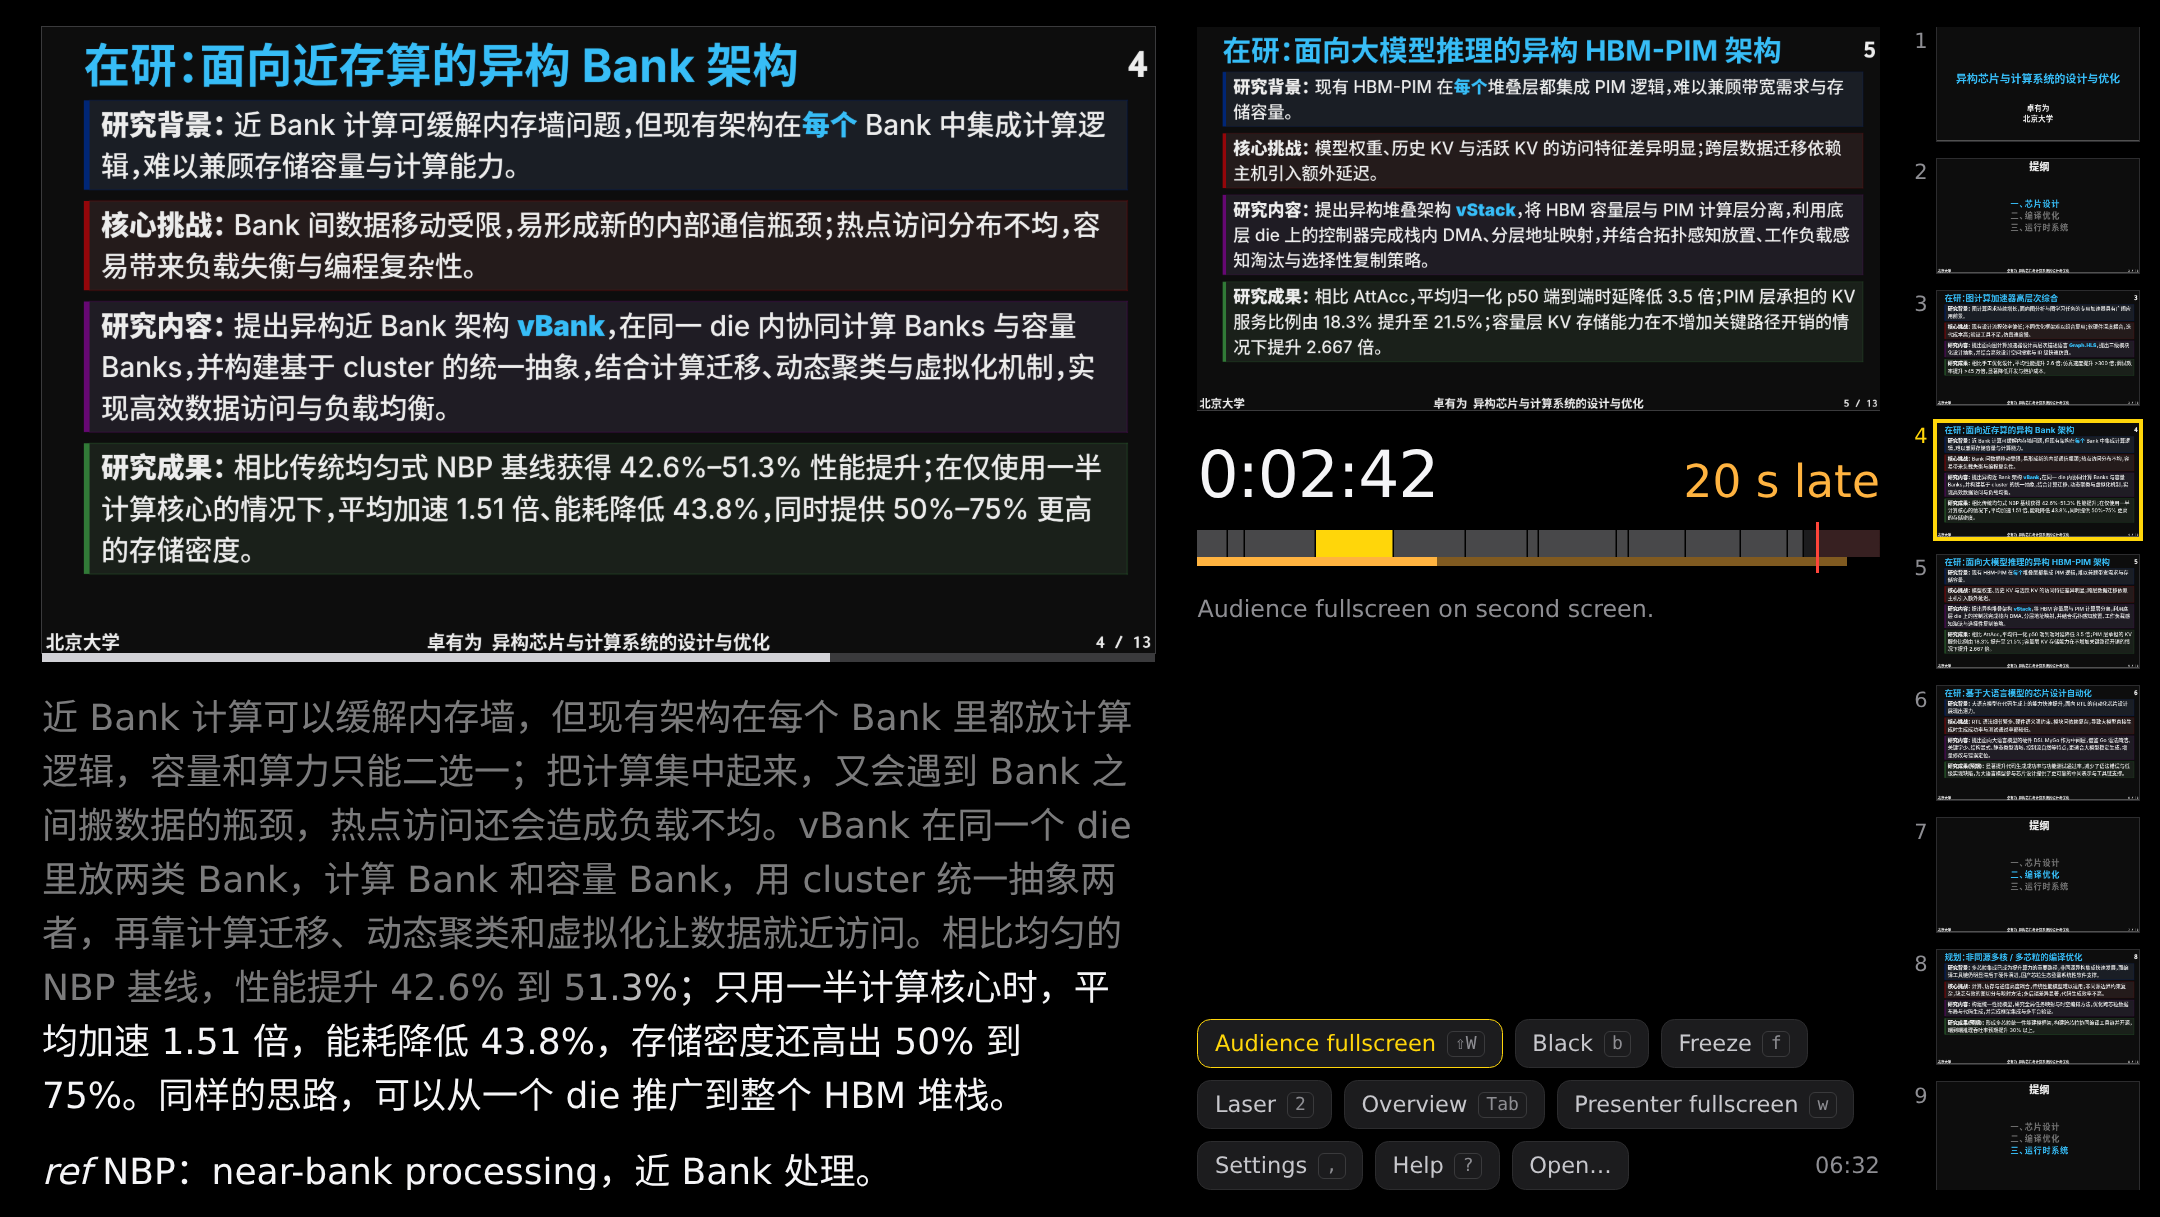
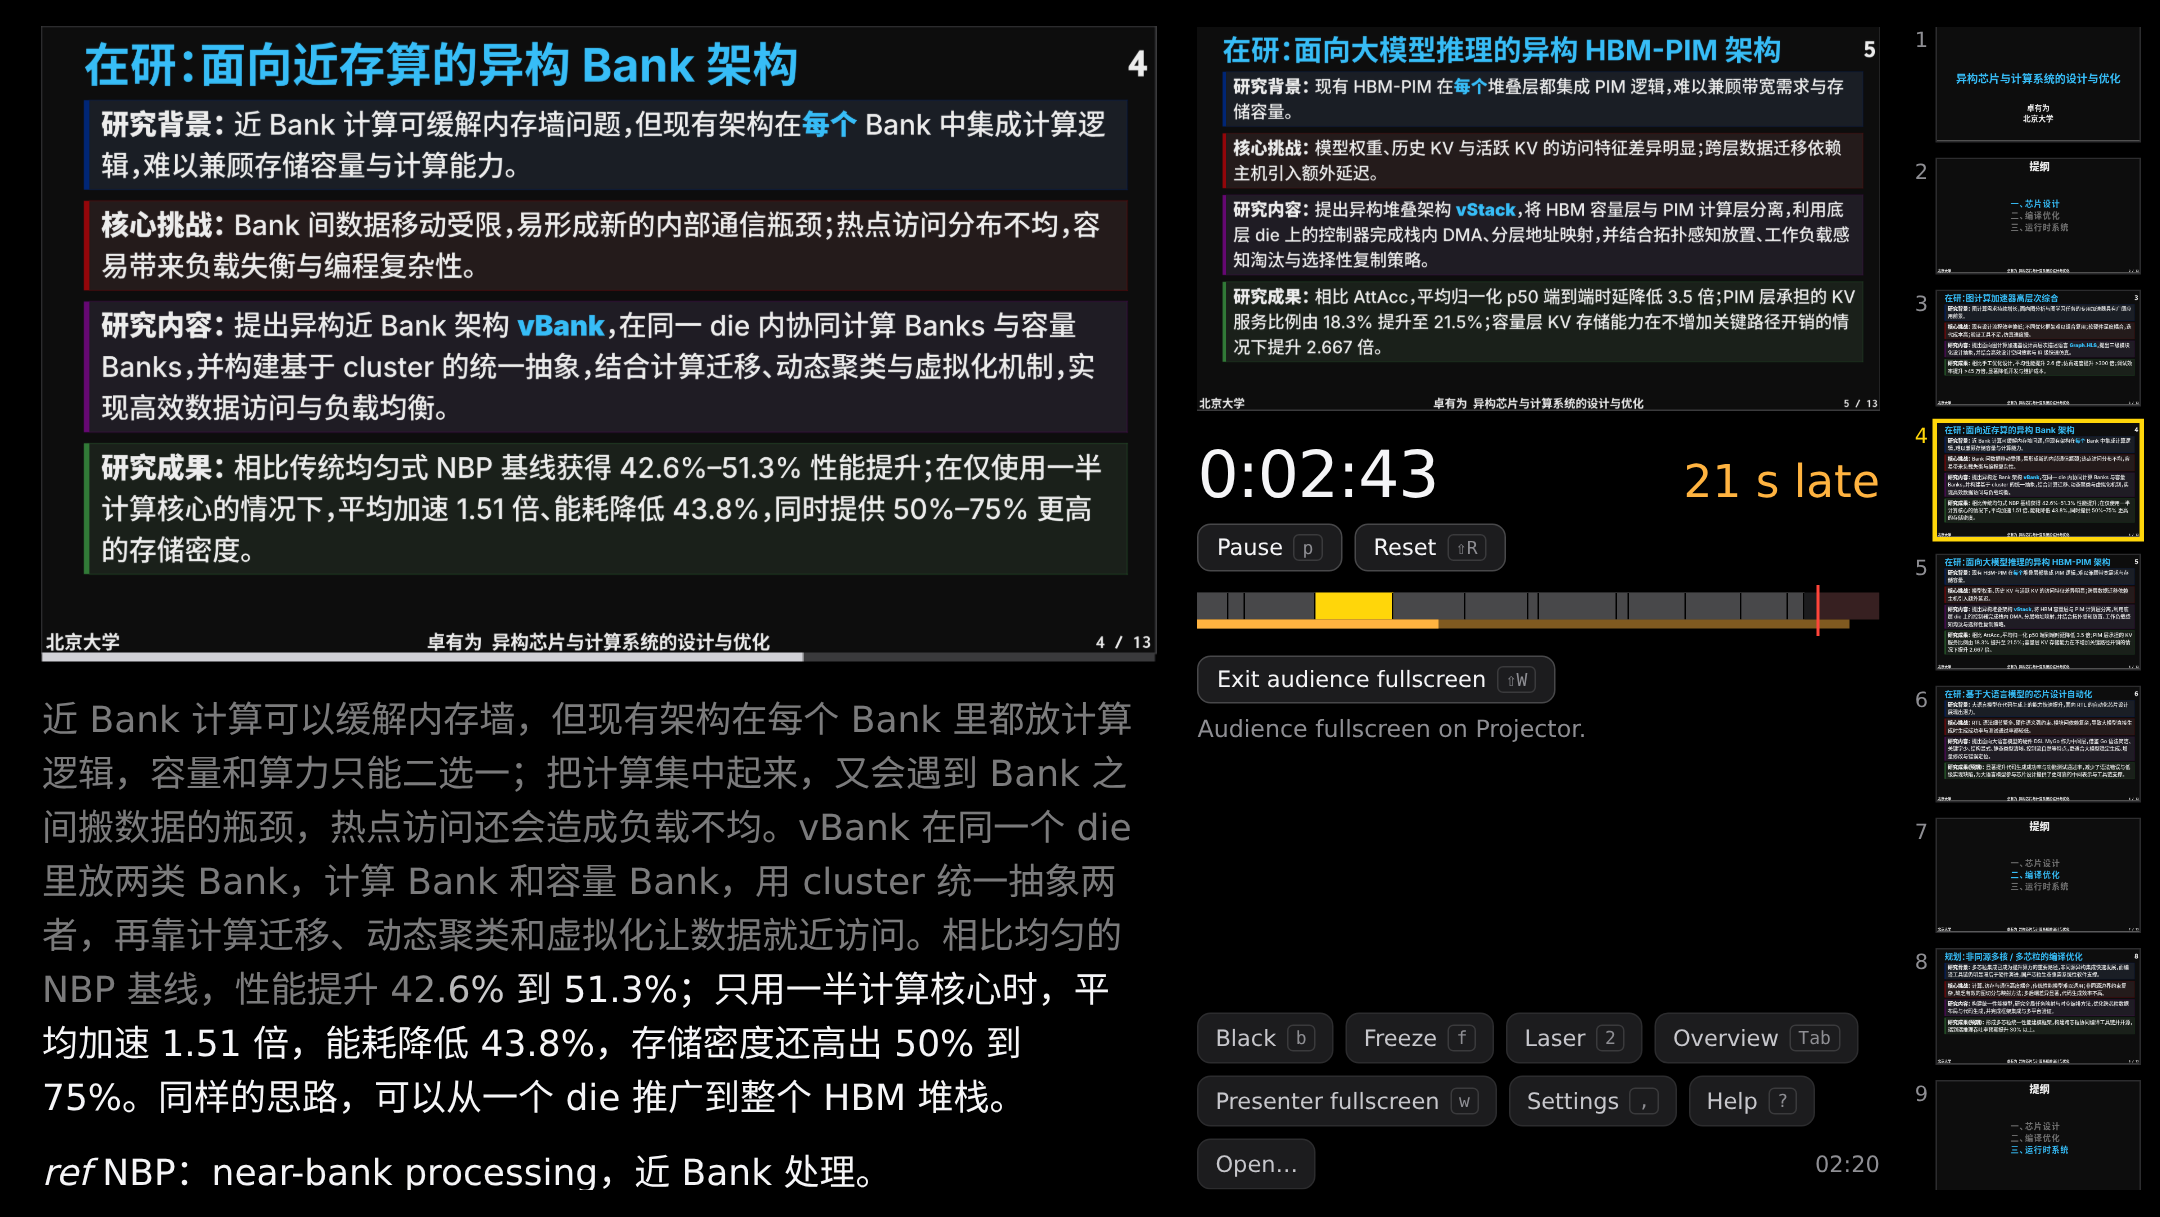
Start, Pause, Reset and the audience's next step in plain sight
Testers didn't know they could pause or reset the clock, so a look
through the slides before the talk threw the pace off.

- Start/Pause and Reset buttons sit under the clock, always there. What
  to press next is yellow: Start before the clock starts, Resume while
  paused. While the clock runs, Reset takes a second click; the reset
  keys still work only while paused.
- Back on slide 1 with time on the clock, Reset turns yellow, and a
  message asks to reset it before starting the talk.
- No line of text under the clock, so nothing there moves as the clock
  starts, pauses or resets; the e2e checks hold the talk bar still. The
  buttons show the clock's state; the rest is in their tooltips (the
  startTime countdown is on Start).
- A yellow button by the clock gives the audience's next step: open the
  audience window, then make it fullscreen, naming the screen. It
  replaces the Audience button in the toolbar.
- A new README screenshot.

diff --git a/src/main.ts b/src/main.ts
@@ -21,6 +21,14 @@ function el<K extends keyof HTMLElementTagNameMap>(tag: K, className = "", text 
   return e;
 }
 
+/** A button's label and key, redrawn only when they change (so a click in progress isn't lost). */
+function label(b: HTMLElement, text: string, key: string): void {
+  const now = `${text}\n${key}`;
+  if (b.dataset.label === now) return;
+  b.dataset.label = now;
+  b.replaceChildren(text, el("kbd", "", key));
+}
+
 let toastTimer = 0;
 function toast(message: string, kind: "info" | "error" = "info", ms = 4500): void {
   const t = $("toast");
@@ -330,7 +338,7 @@ class Presenter {
         // Never mid-talk by a stray key: the clock has to be paused first.
         if (s.timer.startedAt === null) return;
         if (s.timer.pausedAt === null) {
-          toast("The timer is running. Pause it first (p, or click the clock), then reset.");
+          toast("The timer is running. Pause it first (p), then reset, or click Reset twice.");
           return;
         }
         s.timer = T.freshTimer();
@@ -402,9 +410,39 @@ class Presenter {
     cur.addEventListener("wheel", wheelStepper((d) => this.act(d > 0 ? "next" : "prev")), { signal, passive: true });
     $("next").addEventListener("click", () => this.act("nextSlide"), { signal });
     $("timer").addEventListener("click", () => this.act("timerPause"), { signal });
-    $("timer-reset").addEventListener("click", () => this.act("timerReset"), { signal });
+    const toggle = $("timer-toggle");
+    toggle.addEventListener(
+      "click",
+      () => {
+        toggle.blur();
+        this.act(this.state.timer.startedAt === null ? "timerStart" : "timerPause");
+      },
+      { signal },
+    );
+    const reset = $("timer-reset");
+    reset.addEventListener(
+      "click",
+      () => {
+        reset.blur();
+        const t = this.state.timer;
+        // Running, it takes a second click, so a stray one can't wipe the talk's time.
+        if (t.pausedAt === null && !this.resetArmed) {
+          this.resetArmed = window.setTimeout(() => {
+            this.resetArmed = 0;
+            this.renderTimer();
+          }, 3000);
+          this.renderTimer();
+          return;
+        }
+        clearTimeout(this.resetArmed);
+        this.resetArmed = 0;
+        if (t.pausedAt === null) this.state.timer = T.togglePause(t, Date.now());
+        this.act("timerReset");
+      },
+      { signal },
+    );
 
-    for (const b of document.querySelectorAll<HTMLButtonElement>(".toolbar [data-action]")) {
+    for (const b of document.querySelectorAll<HTMLButtonElement>("#presenter [data-action]")) {
       b.addEventListener(
         "click",
         () => {
@@ -661,7 +699,6 @@ class Presenter {
     this.renderStatus();
 
     const on: Partial<Record<Action, boolean>> = {
-      openAudience: audience.open,
       laserMode: s.laser,
       blank: s.black,
       freeze: s.frozen !== null,
@@ -669,11 +706,13 @@ class Presenter {
       fullscreen: !!document.fullscreenElement,
       help: s.help,
     };
-    // Once the audience window is open, its button makes it fullscreen.
+    // The audience's next step, standing out until the audience is fullscreen.
     const ab = $("audience-button");
     ab.dataset.action = audience.open ? "audienceFullscreen" : "openAudience";
-    ab.innerHTML = audience.open ? "Audience fullscreen <kbd>⇧W</kbd>" : "Audience <kbd>o</kbd>";
-    on.audienceFullscreen = audience.fullscreen;
+    ab.classList.toggle("cta", !audience.fullscreen);
+    if (!audience.open) label(ab, "Open audience window", "o");
+    else if (audience.fullscreen) label(ab, "Exit audience fullscreen", "⇧W");
+    else label(ab, audience.screen ? `Audience fullscreen on ${audience.screen}` : "Audience fullscreen", "⇧W");
     for (const b of document.querySelectorAll<HTMLElement>(".toolbar [data-action]")) {
       b.classList.toggle("on", !!on[b.dataset.action as Action]);
     }
@@ -717,6 +756,10 @@ class Presenter {
     return `${second}:${Math.floor(now / 60_000)}`;
   }
   private beat = "";
+  /** Set while Reset waits for its second click. */
+  private resetArmed = 0;
+  /** On slide 1 with time on the clock, as last drawn. */
+  private stale = false;
 
   /** The ticker's beat: redraws once a shown number turns over, not on every beat. Returns when to beat again. */
   private tick(): number {
@@ -746,22 +789,31 @@ class Presenter {
     timer.textContent = T.format(T.elapsed(t, now));
     timer.classList.toggle("idle", t.startedAt === null || t.pausedAt !== null);
     $("wallclock").textContent = T.formatClock(now);
-    const until = T.untilStart(this.talk(), now);
-    const mode =
-      t.pausedAt !== null
-        ? "paused · click the clock to resume"
-        : t.startedAt !== null
-          ? ""
-          : until
-            ? `talk starts at ${this.deck.startTime}, in ${T.format(until)}`
-            : s.page === 0
-              ? "starts when you leave slide 1"
-              : "starts at your next move, or press s";
-    $("timer-mode").textContent = mode;
-    const line = $("timer-line");
-    line.hidden = !mode;
-    line.classList.toggle("warn", t.pausedAt !== null);
-    $("timer-reset").hidden = t.pausedAt === null;
+    // Back on slide 1 with time on the clock: likely a look through the slides
+    // before the talk, which would throw its pace off. Reset is the way out.
+    const stale = t.startedAt !== null && this.deck.pages[s.page].slide === 0;
+    if (stale && !this.stale) toast("The clock has already started. Starting the talk now? Reset it first.", "info", 8000);
+    this.stale = stale;
+    // The buttons say what state the clock is in, so nothing under it comes and
+    // goes: what to press next stands out, and the rest is in their tooltips.
+    const toggle = $("timer-toggle");
+    if (t.startedAt === null) {
+      label(toggle, "Start", "s");
+      const until = T.untilStart(this.talk(), now);
+      toggle.title = until
+        ? `The talk starts at ${this.deck.startTime}, in ${T.format(until)}.`
+        : `Starts the clock. It also starts ${s.page === 0 ? "when you leave slide 1" : "at your next move"}.`;
+    } else {
+      label(toggle, t.pausedAt === null ? "Pause" : "Resume", "p");
+      toggle.title = "";
+    }
+    toggle.classList.toggle("cta", (t.startedAt === null || t.pausedAt !== null) && !stale);
+    const reset = $<HTMLButtonElement>("timer-reset");
+    reset.title = t.pausedAt === null ? "While the clock runs, click twice." : "";
+    reset.disabled = t.startedAt === null;
+    reset.classList.toggle("cta", stale && !this.resetArmed);
+    reset.classList.toggle("confirm", !!this.resetArmed);
+    label(reset, this.resetArmed ? "Click again to reset" : "Reset", "⇧R");
   }
 
   /** Each slide's planned window, from its first step's start to its last step's end. */
@@ -974,14 +1026,12 @@ class Presenter {
   private renderStatus(): void {
     const status = $("audience-status");
     if (!audience.open) {
-      status.textContent = this.state.solo
-        ? "Presenting in this window. Esc returns to the presenter view."
-        : "Audience window closed. Press o to open it.";
+      status.textContent = this.state.solo ? "Presenting in this window. Esc returns to the presenter view." : "";
     } else if (audience.fullscreen) {
       status.textContent = `Audience fullscreen${audience.screen ? ` on ${audience.screen}` : ""}.`;
     } else {
       status.textContent = audience.screen
-        ? `Audience window open. Shift+W makes it fullscreen on ${audience.screen}.`
+        ? "Audience window open, not fullscreen yet."
         : "Audience window open; drag it to the projector, then double-click it or press Shift+W for fullscreen.";
     }
     const scr = $("screen-status");

diff --git a/index.html b/index.html
@@ -62,20 +62,22 @@
             <button id="timer" class="timer idle" type="button" title="Click to pause or resume (p)">0:00:00</button>
             <span id="pace-all-text" class="pace-num"></span>
           </div>
-          <p id="timer-line" class="timer-line">
-            <span id="timer-mode"></span>
-            <button id="timer-reset" type="button" hidden>Reset to 0:00:00</button>
-          </p>
+          <div class="timer-controls">
+            <button id="timer-toggle" class="ctl cta" type="button">Start <kbd>s</kbd></button>
+            <button id="timer-reset" class="ctl" type="button" disabled>Reset <kbd>⇧R</kbd></button>
+          </div>
           <div
             id="talkbar"
             class="talkbar"
             title="The slides as planned, this one yellow. The line under them: time spent, colored like the early/late by the clock, then paler to where the talk would end. Red line: the target end."
           ></div>
         </section>
-        <p id="audience-status" class="hintline"></p>
+        <div class="audience-bar">
+          <button type="button" id="audience-button" class="ctl cta" data-action="openAudience">Open audience window <kbd>o</kbd></button>
+          <p id="audience-status" class="hintline"></p>
+        </div>
         <p id="screen-status" class="hintline"></p>
         <nav class="toolbar">
-          <button type="button" id="audience-button" data-action="openAudience">Audience <kbd>o</kbd></button>
           <button type="button" data-action="blank">Black <kbd>b</kbd></button>
           <button type="button" data-action="freeze">Freeze <kbd>f</kbd></button>
           <button type="button" data-action="laserMode">Laser <kbd>2</kbd></button>

diff --git a/src/style.css b/src/style.css
@@ -428,29 +428,57 @@ kbd {
 .timer.idle {
   color: var(--dim);
 }
-.timer-line {
+/* One row that keeps its height, whatever the clock is doing. */
+.timer-controls {
+  display: flex;
+  gap: 8px;
+  margin: 10px 0 12px;
+}
+/* Buttons beside the clock and for the audience: in plain sight, unlike keys. */
+.ctl {
+  display: inline-flex;
+  align-items: center;
+  gap: 7px;
+  padding: 6px 12px;
+  border: 1px solid var(--faint);
+  border-radius: 9px;
+  background: var(--panel);
+  color: var(--fg);
+  font-size: 15px;
+  white-space: nowrap;
+  cursor: pointer;
+}
+.ctl:hover {
+  border-color: var(--dim);
+}
+.ctl:disabled {
+  border-color: var(--line);
+  color: var(--faint);
+  cursor: default;
+}
+.ctl kbd {
+  font-size: 12px;
+}
+/* What to do next: the audience not yet fullscreen, the clock paused. */
+.ctl.cta {
+  border-color: var(--accent);
+  background: var(--accent);
+  color: #000;
+  font-weight: 600;
+}
+.ctl.cta kbd {
+  border-color: rgb(0 0 0 / 0.3);
+  color: #3a3a3c;
+}
+.ctl.confirm {
+  border-color: var(--over);
+  color: var(--over);
+}
+.audience-bar {
   display: flex;
   flex-wrap: wrap;
   align-items: center;
-  gap: 4px 12px;
-  margin: 6px 0 0;
-  color: var(--dim);
-  font-size: 14px;
-}
-.timer-line.warn {
-  color: var(--behind);
-}
-#timer-reset {
-  padding: 3px 9px;
-  border: 1px solid var(--faint);
-  border-radius: 7px;
-  background: var(--panel);
-  color: var(--fg);
-  font-size: 13px;
-  cursor: pointer;
-}
-#timer-reset:hover {
-  border-color: var(--dim);
+  gap: 6px 12px;
 }
 
 .pace-num {

diff --git a/README.md b/README.md
@@ -33,7 +33,8 @@ next slide: the clock and one bar for the whole talk.
 
 1. Open the page (or `pdfpcnic.html` from a USB stick) and drop your PDF **and** its `.pdfpc` file on it, or choose
    both at once. The `.pdfpc` file is optional; it brings notes, timing, hidden slides and reveal steps.
-2. Press `o` to open the audience window, then `Shift+W` to make it fullscreen.
+2. Press `o` to open the audience window, then `Shift+W` to make it fullscreen. The yellow button under the clock does
+   the same, one step at a time.
    - **Chrome and Edge** ask once to manage windows. Allow it, and `Shift+W` puts the audience fullscreen on another
      screen than the presenter's: an external one over the laptop's own. If you dragged the audience window to a
      screen yourself, it goes fullscreen there.
@@ -62,8 +63,8 @@ The same keys as pdfpc, plus `o` for the audience window. Press `?` (or **Help**
 | `b` / `f` | black screen / freeze the audience on this slide while you move on (a card over your current slide says so) |
 | `2` / `1` | laser pointer on / off (`+` `-` change its size) |
 | `Esc` | leave black, freeze and laser |
-| `s` / `p`, click the clock | start / pause the timer |
-| `Ctrl+T` or `Shift+R`, or **Reset** | reset the timer to zero; only while paused |
+| `s` / `p`, click the clock, or **Start** / **Pause** | start / pause the timer |
+| `Ctrl+T` or `Shift+R`, or **Reset** | reset the timer to zero; the keys only while paused, the button with a second click while it runs |
 | `,` | settings: current slide, notes and laser sizes; pace colors |
 | `+` / `-` | notes text size |
 | `[` / `]` | current slide smaller / bigger, trading room with the notes |
@@ -80,7 +81,7 @@ or tinymist's "Export PDF + Pdfpc".
 | `pages[].note` | speaker notes, rendered as Markdown (unless `disableMarkdown`) |
 | `pages[].label`, `overlay`, `forcedOverlay` | reveal steps grouped into one slide, as pdfpc does |
 | `pages[].hidden` | skipped by normal navigation |
-| `duration`, `endTime`, `startTime` | countdown, and a countdown to the start |
+| `duration`, `endTime`, `startTime` | countdown, and a countdown to the start (in the Start button's tooltip) |
 | `endSlide` | the talk's last slide; later ones are backup |
 | `savedSlide` | bookmark (`Shift+M`) |
 | `noteFontSize` | notes size, until you change it with `+`/`-` |
@@ -100,9 +101,10 @@ the `.pdfpc` file.
 ## Pace
 
 The clock counts up from zero, beside the time of day, as in Présentation.app. It never changes color; the pace bars
-under it do that job. Click the clock to pause. While it is paused, a **Reset to 0:00:00** button appears; the reset keys
-work only then too, so a stray key can't wipe the timer mid-talk. After a reset the clock starts again at your next
-move.
+under it do that job. **Pause** and **Reset** sit right under it: if you looked through the slides before the talk,
+the clock has been running, so reset it before you start (back on slide 1, Reset turns yellow to remind you). While
+it runs, Reset takes a second click, and the reset keys work only while paused, so a stray click or key can't wipe
+the timer mid-talk. After a reset the clock starts again at your next move.
 
 A note can start with the slide's planned window, in minutes and seconds from the start of the talk:
 

diff --git a/CHANGELOG.md b/CHANGELOG.md
@@ -11,6 +11,16 @@ fields read and the timing-line format are the interface. Each release attaches 
   your screen; `Shift+W` then makes it fullscreen on another screen (an external one over the laptop's own), or where
   you dragged it. Chrome picks the screen itself, so the window no longer has to be moved there first, which could
   leave it on the wrong display in Chrome on Windows. It no longer moves on its own when it opens.
+- **A yellow button under the clock gives the audience's next step**: open the audience window, then make it
+  fullscreen (naming the screen). It replaces the Audience button in the toolbar, and turns plain once the audience is
+  fullscreen.
+- **Start/Pause and Reset buttons sit under the clock**, always in sight, instead of a Reset that appeared only while
+  paused. What to press next is yellow: Start before the clock starts, Resume while paused. While the clock runs,
+  Reset takes a second click; the reset keys still work only while paused.
+- **No more line of text under the clock**, so nothing there moves as the clock starts, pauses or resets. The buttons
+  show the clock's state; the rest is in their tooltips and in the message at the bottom.
+- **Back on slide 1 with time on the clock, Reset turns yellow** and a message asks whether to reset before you start:
+  a look through the slides before the talk starts the clock and would throw the pace off.
 
 ## 1.0.1 (2026-10-26)
 
